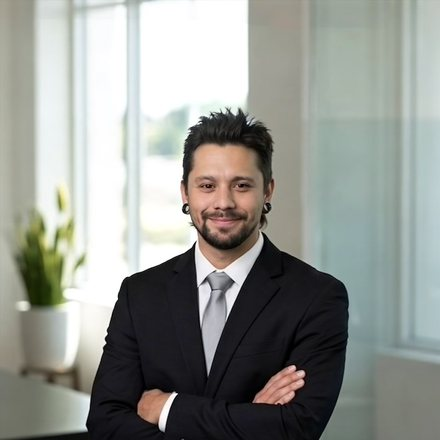
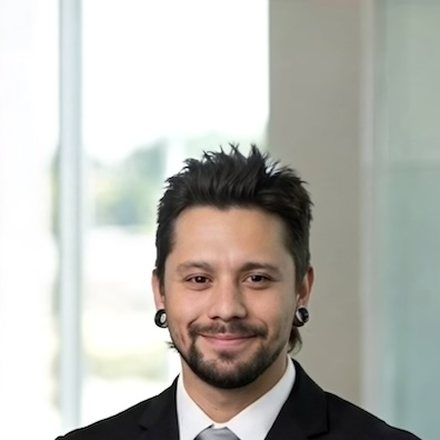
Dark mode default; tighter face-filling team crops (v3); email click copies to clipboard w/ toast; drop 'reply within one business day' claims

diff --git a/contact.html b/contact.html
@@ -15,8 +15,8 @@
 <link rel="preconnect" href="https://fonts.googleapis.com">
 <link rel="preconnect" href="https://fonts.gstatic.com" crossorigin>
 <link href="https://fonts.googleapis.com/css2?family=Space+Grotesk:wght@500;600;700&family=Plus+Jakarta+Sans:wght@400;500;600;700&display=swap" rel="stylesheet">
-<link rel="stylesheet" href="styles.css?v=8">
-<script>(function(){try{var t=localStorage.getItem("theme")||(matchMedia("(prefers-color-scheme:dark)").matches?"dark":"light");document.documentElement.setAttribute("data-theme",t);}catch(e){}})();</script>
+<link rel="stylesheet" href="styles.css?v=9">
+<script>(function(){try{var t=localStorage.getItem("theme")||"dark";document.documentElement.setAttribute("data-theme",t);}catch(e){}})();</script>
 </head>
 <body>
 <a class="skip" href="#main">Skip to content</a>
@@ -45,7 +45,7 @@
  <section class="page-hero" style="padding-bottom:6px"><div class="wrap">
    <span class="eyebrow reveal">Contact</span>
    <h1 class="reveal d1">Tell us what you need</h1>
-   <p class="reveal d2">Fill out the quick form below and we will reply within one business day. Prefer to talk?<br>Call or text <a href="tel:+14802874190" style="color:var(--brand);font-weight:600;text-decoration:none">(480) 287-4190</a>.</p>
+   <p class="reveal d2">Fill out the quick form below and we will be in touch. Prefer to talk?<br>Call or text <a href="tel:+14802874190" style="color:var(--brand);font-weight:600;text-decoration:none">(480) 287-4190</a>.</p>
  </div></section>
 
  <section class="section" id="form" style="padding-top:26px"><div class="wrap">
@@ -90,7 +90,7 @@
  <section class="section" id="team" style="background:var(--surface);border-block:1px solid var(--line)"><div class="wrap">
    <div class="sec-head center reveal"><span class="eyebrow">Meet the team</span><h2>The local people behind Anderson Technologies</h2>
      <p>Real people you can reach, not a call center. When you call, you get us.</p></div>
-   <div class="team-grid"><div class="team-card reveal"><div class="team-av"><img src="assets/wyatt.jpg?v=2" alt="Wyatt Anderson" loading="lazy" width="440" height="440"></div><h3>Wyatt Anderson</h3><p>Founder</p></div><div class="team-card reveal"><div class="team-av"><img src="assets/albert.jpg?v=2" alt="Albert" loading="lazy" width="440" height="440"></div><h3>Albert</h3><p>Operations Manager</p></div><div class="team-card reveal"><div class="team-av"><img src="assets/alex.jpg?v=2" alt="Alex" loading="lazy" width="440" height="440"></div><h3>Alex</h3><p>Technician</p></div><div class="team-card reveal"><div class="team-av"><img src="assets/nico.jpg?v=2" alt="Nico" loading="lazy" width="440" height="440"></div><h3>Nico</h3><p>Technician</p></div><div class="team-card reveal"><div class="team-av"><img src="assets/josh.jpg?v=2" alt="Josh" loading="lazy" width="440" height="440"></div><h3>Josh</h3><p>Technician</p></div><div class="team-card reveal"><div class="team-av"><img src="assets/carolina.jpg?v=2" alt="Carolina" loading="lazy" width="440" height="440"></div><h3>Carolina</h3><p>Technician</p></div><div class="team-card reveal"><div class="team-av"><img src="assets/dakota.jpg?v=2" alt="Dakota" loading="lazy" width="440" height="440"></div><h3>Dakota</h3><p>Technician</p></div><div class="team-card reveal"><div class="team-av mono"><span>E</span></div><h3>Eduardo</h3><p>Technician</p></div><div class="team-card reveal"><div class="team-av"><img src="assets/keanu.jpg?v=2" alt="Keanu" loading="lazy" width="440" height="440"></div><h3>Keanu</h3><p>Technician</p></div><div class="team-card reveal"><div class="team-av"><img src="assets/alejandro.jpg?v=2" alt="Alejandro" loading="lazy" width="440" height="440"></div><h3>Alejandro</h3><p>Technician</p></div><div class="team-card reveal"><div class="team-av"><img src="assets/brandon.jpg?v=2" alt="Brandon" loading="lazy" width="440" height="440"></div><h3>Brandon</h3><p>Technician</p></div></div>
+   <div class="team-grid"><div class="team-card reveal"><div class="team-av"><img src="assets/wyatt.jpg?v=3" alt="Wyatt Anderson" loading="lazy" width="440" height="440"></div><h3>Wyatt Anderson</h3><p>Founder</p></div><div class="team-card reveal"><div class="team-av"><img src="assets/albert.jpg?v=3" alt="Albert" loading="lazy" width="440" height="440"></div><h3>Albert</h3><p>Operations Manager</p></div><div class="team-card reveal"><div class="team-av"><img src="assets/alex.jpg?v=3" alt="Alex" loading="lazy" width="440" height="440"></div><h3>Alex</h3><p>Technician</p></div><div class="team-card reveal"><div class="team-av"><img src="assets/nico.jpg?v=3" alt="Nico" loading="lazy" width="440" height="440"></div><h3>Nico</h3><p>Technician</p></div><div class="team-card reveal"><div class="team-av"><img src="assets/josh.jpg?v=3" alt="Josh" loading="lazy" width="440" height="440"></div><h3>Josh</h3><p>Technician</p></div><div class="team-card reveal"><div class="team-av"><img src="assets/carolina.jpg?v=3" alt="Carolina" loading="lazy" width="440" height="440"></div><h3>Carolina</h3><p>Technician</p></div><div class="team-card reveal"><div class="team-av"><img src="assets/dakota.jpg?v=3" alt="Dakota" loading="lazy" width="440" height="440"></div><h3>Dakota</h3><p>Technician</p></div><div class="team-card reveal"><div class="team-av mono"><span>E</span></div><h3>Eduardo</h3><p>Technician</p></div><div class="team-card reveal"><div class="team-av"><img src="assets/keanu.jpg?v=3" alt="Keanu" loading="lazy" width="440" height="440"></div><h3>Keanu</h3><p>Technician</p></div><div class="team-card reveal"><div class="team-av"><img src="assets/alejandro.jpg?v=3" alt="Alejandro" loading="lazy" width="440" height="440"></div><h3>Alejandro</h3><p>Technician</p></div><div class="team-card reveal"><div class="team-av"><img src="assets/brandon.jpg?v=3" alt="Brandon" loading="lazy" width="440" height="440"></div><h3>Brandon</h3><p>Technician</p></div></div>
  </div></section>
 
  
@@ -136,5 +136,5 @@
   <div class="legal"><span>© 2026 Anderson Technologies LLC. All rights reserved.</span>
     <span>Arizona & California</span></div>
 </div></footer>
-<script src="app.js?v=2"></script>
+<script src="app.js?v=3"></script>
 </body></html>

diff --git a/index.html b/index.html
@@ -15,8 +15,8 @@
 <link rel="preconnect" href="https://fonts.googleapis.com">
 <link rel="preconnect" href="https://fonts.gstatic.com" crossorigin>
 <link href="https://fonts.googleapis.com/css2?family=Space+Grotesk:wght@500;600;700&family=Plus+Jakarta+Sans:wght@400;500;600;700&display=swap" rel="stylesheet">
-<link rel="stylesheet" href="styles.css?v=8">
-<script>(function(){try{var t=localStorage.getItem("theme")||(matchMedia("(prefers-color-scheme:dark)").matches?"dark":"light");document.documentElement.setAttribute("data-theme",t);}catch(e){}})();</script>
+<link rel="stylesheet" href="styles.css?v=9">
+<script>(function(){try{var t=localStorage.getItem("theme")||"dark";document.documentElement.setAttribute("data-theme",t);}catch(e){}})();</script>
 </head>
 <body>
 <a class="skip" href="#main">Skip to content</a>
@@ -55,7 +55,7 @@
    <div class="hero-panel reveal d2">
      <div class="row"><div class="ic"><svg viewBox="0 0 24 24" aria-hidden="true"><path d="M4 14v-2a8 8 0 0 1 16 0v2"/><path d="M4 14a2 2 0 0 1 2-2h1v6H6a2 2 0 0 1-2-2v-2Zm16 0a2 2 0 0 0-2-2h-1v6h1a2 2 0 0 0 2-2v-2Z"/><path d="M18 18v1a3 3 0 0 1-3 3h-3"/></svg></div><div><b>Managed IT for business</b><span>Proactive support, security, and cloud</span></div></div>
      <div class="row"><div class="ic mint"><svg viewBox="0 0 24 24" aria-hidden="true"><path d="M14.7 6.3a4 4 0 0 0-5.2 5.2L4 17v3h3l5.5-5.5a4 4 0 0 0 5.2-5.2l-2.5 2.5-2.5-.5-.5-2.5 2.5-2.5Z"/></svg></div><div><b>Home and office help</b><span>Repairs and setup, no contract needed</span></div></div>
-     <div class="row"><div class="ic amber"><svg viewBox="0 0 24 24" aria-hidden="true"><circle cx="12" cy="12" r="9"/><path d="M12 7v5l3 2"/></svg></div><div><b>Reply within one business day</b><span>Clear next steps, every time</span></div></div>
+     <div class="row"><div class="ic amber"><svg viewBox="0 0 24 24" aria-hidden="true"><path d="M5 12.5l4 4L19 7"/></svg></div><div><b>Honest, upfront pricing</b><span>No surprises, no runaround</span></div></div>
    </div>
  </div></section>
 
@@ -157,7 +157,7 @@
    <div class="center u-mt reveal"><a href="reviews.html" class="btn btn-ghost">See all reviews <svg viewBox="0 0 24 24" aria-hidden="true"><path d="M5 12h14M13 6l6 6-6 6"/></svg></a></div>
  </div></section>
  <section class="section"><div class="wrap"><div class="cta reveal">
-  <h2>Let's get your technology working for you.</h2><p>Tell us what you need. We reply within one business day with clear next steps, no pressure and no runaround.</p>
+  <h2>Let's get your technology working for you.</h2><p>Tell us what you need. Clear next steps, no pressure and no runaround.</p>
   <div class="hero-cta">
     <a href="contact.html" class="btn btn-white">Get a free quote <svg viewBox="0 0 24 24" aria-hidden="true"><path d="M5 12h14M13 6l6 6-6 6"/></svg></a>
     <a href="tel:+14802874190" class="btn btn-ghost" style="background:transparent;color:#fff;border-color:rgba(255,255,255,.5)">Call (480) 287-4190</a>
@@ -187,5 +187,5 @@
   <div class="legal"><span>© 2026 Anderson Technologies LLC. All rights reserved.</span>
     <span>Arizona & California</span></div>
 </div></footer>
-<script src="app.js?v=2"></script>
+<script src="app.js?v=3"></script>
 </body></html>

diff --git a/thanks.html b/thanks.html
@@ -4,19 +4,19 @@
 <meta charset="UTF-8">
 <meta name="viewport" content="width=device-width, initial-scale=1.0">
 <title>Message received | Anderson Technologies</title>
-<meta name="description" content="Thanks for reaching out. We will reply within one business day.">
+<meta name="description" content="Thanks for reaching out. We will be in touch soon.">
 <link rel="canonical" href="https://andersontechsupport.com/thanks.html">
 <meta property="og:type" content="website">
 <meta property="og:url" content="https://andersontechsupport.com/thanks.html">
 <meta property="og:title" content="Message received | Anderson Technologies">
-<meta property="og:description" content="Thanks for reaching out. We will reply within one business day.">
+<meta property="og:description" content="Thanks for reaching out. We will be in touch soon.">
 <meta name="theme-color" content="#2563eb">
 <link rel="icon" href="assets/favicon.ico">
 <link rel="preconnect" href="https://fonts.googleapis.com">
 <link rel="preconnect" href="https://fonts.gstatic.com" crossorigin>
 <link href="https://fonts.googleapis.com/css2?family=Space+Grotesk:wght@500;600;700&family=Plus+Jakarta+Sans:wght@400;500;600;700&display=swap" rel="stylesheet">
-<link rel="stylesheet" href="styles.css?v=8">
-<script>(function(){try{var t=localStorage.getItem("theme")||(matchMedia("(prefers-color-scheme:dark)").matches?"dark":"light");document.documentElement.setAttribute("data-theme",t);}catch(e){}})();</script>
+<link rel="stylesheet" href="styles.css?v=9">
+<script>(function(){try{var t=localStorage.getItem("theme")||"dark";document.documentElement.setAttribute("data-theme",t);}catch(e){}})();</script>
 </head>
 <body>
 <a class="skip" href="#main">Skip to content</a>
@@ -45,7 +45,7 @@
    <div class="svc" style="width:64px;height:64px;margin:0 auto 24px;display:grid;place-items:center;border-radius:20px">
      <div class="ic" style="margin:0;width:auto;height:auto;background:none;color:var(--mint)"><svg viewBox="0 0 24 24" style="width:34px;height:34px" aria-hidden="true"><path d="M5 12.5l4 4L19 7"/></svg></div></div>
    <h1>Thanks, we got it</h1>
-   <p>Your message is on its way to our team. We reply within one business day with clear next steps. Need help sooner? Call (480) 287-4190.</p>
+   <p>Your message is on its way to our team. We will be in touch with clear next steps. Need help sooner? Call (480) 287-4190.</p>
    <div class="hero-cta" style="justify-content:center;margin-top:26px"><a href="index.html" class="btn btn-primary">Back to home <svg viewBox="0 0 24 24" aria-hidden="true"><path d="M5 12h14M13 6l6 6-6 6"/></svg></a></div>
  </div></section></main><footer><div class="wrap">
   <div class="foot-grid">
@@ -72,5 +72,5 @@
   <div class="legal"><span>© 2026 Anderson Technologies LLC. All rights reserved.</span>
     <span>Arizona & California</span></div>
 </div></footer>
-<script src="app.js?v=2"></script>
+<script src="app.js?v=3"></script>
 </body></html>

diff --git a/support.html b/support.html
@@ -15,8 +15,8 @@
 <link rel="preconnect" href="https://fonts.googleapis.com">
 <link rel="preconnect" href="https://fonts.gstatic.com" crossorigin>
 <link href="https://fonts.googleapis.com/css2?family=Space+Grotesk:wght@500;600;700&family=Plus+Jakarta+Sans:wght@400;500;600;700&display=swap" rel="stylesheet">
-<link rel="stylesheet" href="styles.css?v=8">
-<script>(function(){try{var t=localStorage.getItem("theme")||(matchMedia("(prefers-color-scheme:dark)").matches?"dark":"light");document.documentElement.setAttribute("data-theme",t);}catch(e){}})();</script>
+<link rel="stylesheet" href="styles.css?v=9">
+<script>(function(){try{var t=localStorage.getItem("theme")||"dark";document.documentElement.setAttribute("data-theme",t);}catch(e){}})();</script>
 </head>
 <body>
 <a class="skip" href="#main">Skip to content</a>
@@ -73,7 +73,7 @@
    <div class="center u-mt reveal"><a href="contact.html?service=Home%20%26%20Office%20Support" class="btn btn-primary">Book support <svg viewBox="0 0 24 24" aria-hidden="true"><path d="M5 12h14M13 6l6 6-6 6"/></svg></a></div>
  </div></section>
  <section class="section"><div class="wrap"><div class="cta reveal">
-  <h2>Something not working? Let's fix it.</h2><p>Send a quick note about what is going on. We reply within one business day with a plan and a price.</p>
+  <h2>Something not working? Let's fix it.</h2><p>Send a quick note about what is going on and we will get you a plan and a price.</p>
   <div class="hero-cta">
     <a href="contact.html" class="btn btn-white">Get a free quote <svg viewBox="0 0 24 24" aria-hidden="true"><path d="M5 12h14M13 6l6 6-6 6"/></svg></a>
     <a href="tel:+14802874190" class="btn btn-ghost" style="background:transparent;color:#fff;border-color:rgba(255,255,255,.5)">Call (480) 287-4190</a>
@@ -103,5 +103,5 @@
   <div class="legal"><span>© 2026 Anderson Technologies LLC. All rights reserved.</span>
     <span>Arizona & California</span></div>
 </div></footer>
-<script src="app.js?v=2"></script>
+<script src="app.js?v=3"></script>
 </body></html>

diff --git a/reviews.html b/reviews.html
@@ -15,8 +15,8 @@
 <link rel="preconnect" href="https://fonts.googleapis.com">
 <link rel="preconnect" href="https://fonts.gstatic.com" crossorigin>
 <link href="https://fonts.googleapis.com/css2?family=Space+Grotesk:wght@500;600;700&family=Plus+Jakarta+Sans:wght@400;500;600;700&display=swap" rel="stylesheet">
-<link rel="stylesheet" href="styles.css?v=8">
-<script>(function(){try{var t=localStorage.getItem("theme")||(matchMedia("(prefers-color-scheme:dark)").matches?"dark":"light");document.documentElement.setAttribute("data-theme",t);}catch(e){}})();</script>
+<link rel="stylesheet" href="styles.css?v=9">
+<script>(function(){try{var t=localStorage.getItem("theme")||"dark";document.documentElement.setAttribute("data-theme",t);}catch(e){}})();</script>
 </head>
 <body>
 <a class="skip" href="#main">Skip to content</a>
@@ -101,7 +101,7 @@
         <div class="who"><div class="av">P</div><div><b>Patrick</b><span>Newport Beach, CA</span></div></div></div></div>
  </div></section>
  <section class="section"><div class="wrap"><div class="cta reveal">
-  <h2>Let's get your technology working for you.</h2><p>Tell us what you need. We reply within one business day with clear next steps, no pressure and no runaround.</p>
+  <h2>Let's get your technology working for you.</h2><p>Tell us what you need. Clear next steps, no pressure and no runaround.</p>
   <div class="hero-cta">
     <a href="contact.html" class="btn btn-white">Get a free quote <svg viewBox="0 0 24 24" aria-hidden="true"><path d="M5 12h14M13 6l6 6-6 6"/></svg></a>
     <a href="tel:+14802874190" class="btn btn-ghost" style="background:transparent;color:#fff;border-color:rgba(255,255,255,.5)">Call (480) 287-4190</a>
@@ -131,5 +131,5 @@
   <div class="legal"><span>© 2026 Anderson Technologies LLC. All rights reserved.</span>
     <span>Arizona & California</span></div>
 </div></footer>
-<script src="app.js?v=2"></script>
+<script src="app.js?v=3"></script>
 </body></html>

diff --git a/app.js b/app.js
@@ -77,11 +77,29 @@ document.querySelectorAll('.theme-toggle').forEach(btn => {
       try { ok = /thanks/i.test(iframe.contentWindow.location.pathname); }
       catch (err) { ok = true; }          // cross-origin = FormSubmit queued it (pre-activation or its own thanks page)
       if (ok){
-        show('Thanks. Your message is on its way and we reply within one business day. Prefer to talk now? Call (480) 287-4190.', false);
+        show('Thanks. Your message is on its way. Prefer to talk now? Call (480) 287-4190.', false);
         form.reset();
       } else {
         show('Something went wrong sending that. Please email Info@AndersonTechSupport.com or call (480) 287-4190.', true);
       }
     });
   }
+})();
+
+// mailto links: copy the address + show a toast (many desktops have no mail handler, so a click does nothing otherwise)
+(function(){
+  function toast(msg){
+    var t=document.getElementById('toast');
+    if(!t){t=document.createElement('div');t.id='toast';t.className='toast';document.body.appendChild(t);}
+    t.textContent=msg; t.classList.add('show');
+    clearTimeout(t._h); t._h=setTimeout(function(){t.classList.remove('show');},1900);
+  }
+  document.querySelectorAll('a[href^="mailto:"]').forEach(function(a){
+    a.addEventListener('click',function(){
+      var addr=a.getAttribute('href').replace(/^mailto:/,'');
+      if(navigator.clipboard&&navigator.clipboard.writeText){
+        navigator.clipboard.writeText(addr).then(function(){toast('Email copied: '+addr);}).catch(function(){});
+      }
+    });
+  });
 })();

diff --git a/business.html b/business.html
@@ -15,8 +15,8 @@
 <link rel="preconnect" href="https://fonts.googleapis.com">
 <link rel="preconnect" href="https://fonts.gstatic.com" crossorigin>
 <link href="https://fonts.googleapis.com/css2?family=Space+Grotesk:wght@500;600;700&family=Plus+Jakarta+Sans:wght@400;500;600;700&display=swap" rel="stylesheet">
-<link rel="stylesheet" href="styles.css?v=8">
-<script>(function(){try{var t=localStorage.getItem("theme")||(matchMedia("(prefers-color-scheme:dark)").matches?"dark":"light");document.documentElement.setAttribute("data-theme",t);}catch(e){}})();</script>
+<link rel="stylesheet" href="styles.css?v=9">
+<script>(function(){try{var t=localStorage.getItem("theme")||"dark";document.documentElement.setAttribute("data-theme",t);}catch(e){}})();</script>
 </head>
 <body>
 <a class="skip" href="#main">Skip to content</a>
@@ -112,5 +112,5 @@
   <div class="legal"><span>© 2026 Anderson Technologies LLC. All rights reserved.</span>
     <span>Arizona & California</span></div>
 </div></footer>
-<script src="app.js?v=2"></script>
+<script src="app.js?v=3"></script>
 </body></html>

diff --git a/404.html b/404.html
@@ -15,8 +15,8 @@
 <link rel="preconnect" href="https://fonts.googleapis.com">
 <link rel="preconnect" href="https://fonts.gstatic.com" crossorigin>
 <link href="https://fonts.googleapis.com/css2?family=Space+Grotesk:wght@500;600;700&family=Plus+Jakarta+Sans:wght@400;500;600;700&display=swap" rel="stylesheet">
-<link rel="stylesheet" href="styles.css?v=8">
-<script>(function(){try{var t=localStorage.getItem("theme")||(matchMedia("(prefers-color-scheme:dark)").matches?"dark":"light");document.documentElement.setAttribute("data-theme",t);}catch(e){}})();</script>
+<link rel="stylesheet" href="styles.css?v=9">
+<script>(function(){try{var t=localStorage.getItem("theme")||"dark";document.documentElement.setAttribute("data-theme",t);}catch(e){}})();</script>
 </head>
 <body>
 <a class="skip" href="#main">Skip to content</a>
@@ -69,5 +69,5 @@
   <div class="legal"><span>© 2026 Anderson Technologies LLC. All rights reserved.</span>
     <span>Arizona & California</span></div>
 </div></footer>
-<script src="app.js?v=2"></script>
+<script src="app.js?v=3"></script>
 </body></html>

diff --git a/ai.html b/ai.html
@@ -15,8 +15,8 @@
 <link rel="preconnect" href="https://fonts.googleapis.com">
 <link rel="preconnect" href="https://fonts.gstatic.com" crossorigin>
 <link href="https://fonts.googleapis.com/css2?family=Space+Grotesk:wght@500;600;700&family=Plus+Jakarta+Sans:wght@400;500;600;700&display=swap" rel="stylesheet">
-<link rel="stylesheet" href="styles.css?v=8">
-<script>(function(){try{var t=localStorage.getItem("theme")||(matchMedia("(prefers-color-scheme:dark)").matches?"dark":"light");document.documentElement.setAttribute("data-theme",t);}catch(e){}})();</script>
+<link rel="stylesheet" href="styles.css?v=9">
+<script>(function(){try{var t=localStorage.getItem("theme")||"dark";document.documentElement.setAttribute("data-theme",t);}catch(e){}})();</script>
 </head>
 <body>
 <a class="skip" href="#main">Skip to content</a>
@@ -95,5 +95,5 @@
   <div class="legal"><span>© 2026 Anderson Technologies LLC. All rights reserved.</span>
     <span>Arizona & California</span></div>
 </div></footer>
-<script src="app.js?v=2"></script>
+<script src="app.js?v=3"></script>
 </body></html>

diff --git a/styles.css b/styles.css
@@ -385,3 +385,10 @@ footer h5{color:#fff;font-family:var(--disp);font-size:.85rem;letter-spacing:.08
 [data-theme="dark"] .team-av.mono{background:rgba(76,141,255,.14)}
 /* About block folded into Contact */
 .about-body{max-width:760px;margin:0 auto}
+
+/* Toast (copy-to-clipboard feedback) */
+.toast{position:fixed;left:50%;bottom:26px;transform:translateX(-50%) translateY(16px);background:var(--ink);color:#fff;
+  padding:12px 20px;border-radius:12px;font-weight:600;font-size:.9rem;box-shadow:var(--shadow);
+  opacity:0;pointer-events:none;transition:opacity .25s ease,transform .25s ease;z-index:200}
+.toast.show{opacity:1;transform:translateX(-50%) translateY(0)}
+[data-theme="dark"] .toast{background:#f8fafc;color:#0f172a}

diff --git a/build.py b/build.py
@@ -5,7 +5,7 @@ No em dashes. No fabricated stats/testimonials/certifications/pricing.
 OWNER-INPUT to confirm: phone numbers, hours, response-time claim, real managed pricing."""
 import os
 ROOT = os.path.dirname(os.path.abspath(__file__))
-CSSV = "styles.css?v=8"
+CSSV = "styles.css?v=9"
 SITE = "https://andersontechsupport.com"
 PHONE_AZ, PHONE_CA = "(480) 287-4190", "(805) 340-8055"
 EMAIL = "info@andersontechsupport.com"          # lowercase = FormSubmit endpoint identity; do NOT change (would force re-activation)
@@ -38,7 +38,7 @@ ARROW = f'<svg viewBox="0 0 24 24" aria-hidden="true">{I["arrow"]}</svg>'
 SUN = '<svg class="sun" viewBox="0 0 24 24" aria-hidden="true"><circle cx="12" cy="12" r="4"/><path d="M12 2v2M12 20v2M4 12H2M22 12h-2M5.6 5.6 4.2 4.2M19.8 19.8l-1.4-1.4M18.4 5.6l1.4-1.4M4.2 19.8l1.4-1.4"/></svg>'
 MOON = '<svg class="moon" viewBox="0 0 24 24" aria-hidden="true"><path d="M20 14.5A8 8 0 1 1 9.5 4a6.5 6.5 0 0 0 10.5 10.5Z"/></svg>'
 TOGGLE = f'<button class="theme-toggle" type="button" aria-label="Toggle dark mode" title="Toggle theme">{SUN}{MOON}</button>'
-FOUC = '<script>(function(){try{var t=localStorage.getItem("theme")||(matchMedia("(prefers-color-scheme:dark)").matches?"dark":"light");document.documentElement.setAttribute("data-theme",t);}catch(e){}})();</script>'
+FOUC = '<script>(function(){try{var t=localStorage.getItem("theme")||"dark";document.documentElement.setAttribute("data-theme",t);}catch(e){}})();</script>'
 
 def head(title, desc, canon, og_desc=None):
     return f'''<!DOCTYPE html>
@@ -92,7 +92,7 @@ def nav(active=""):
 </div>
 '''
 
-def cta(h="Let's get your technology working for you.", p="Tell us what you need. We reply within one business day with clear next steps, no pressure and no runaround."):
+def cta(h="Let's get your technology working for you.", p="Tell us what you need. Clear next steps, no pressure and no runaround."):
     return f'''<section class="section"><div class="wrap"><div class="cta reveal">
   <h2>{h}</h2><p>{p}</p>
   <div class="hero-cta">
@@ -126,7 +126,7 @@ def footer():
   <div class="legal"><span>© 2026 Anderson Technologies LLC. All rights reserved.</span>
     <span>Arizona & California</span></div>
 </div></footer>
-<script src="app.js?v=2"></script>
+<script src="app.js?v=3"></script>
 </body></html>'''
 
 def svc_card(icon,title,desc):
@@ -219,7 +219,7 @@ home = (head(
    <div class="hero-panel reveal d2">
      <div class="row"><div class="ic">{ic("headset")}</div><div><b>Managed IT for business</b><span>Proactive support, security, and cloud</span></div></div>
      <div class="row"><div class="ic mint">{ic("wrench")}</div><div><b>Home and office help</b><span>Repairs and setup, no contract needed</span></div></div>
-     <div class="row"><div class="ic amber">{ic("clock")}</div><div><b>Reply within one business day</b><span>Clear next steps, every time</span></div></div>
+     <div class="row"><div class="ic amber">{ic("check")}</div><div><b>Honest, upfront pricing</b><span>No surprises, no runaround</span></div></div>
    </div>
  </div></section>
 
@@ -410,7 +410,7 @@ support = (head(
    </div>
    <div class="center u-mt reveal"><a href="contact.html?service=Home%20%26%20Office%20Support" class="btn btn-primary">Book support {ARROW}</a></div>
  </div></section>
- {cta("Something not working? Let's fix it.","Send a quick note about what is going on. We reply within one business day with a plan and a price.")}
+ {cta("Something not working? Let's fix it.","Send a quick note about what is going on and we will get you a plan and a price.")}
  </main>''' + footer())
 write("support.html", support)
 
@@ -440,7 +440,7 @@ team = [
 def team_card(m):
     initials = "".join(w[0] for w in m["name"].split()[:2]).upper()
     if m.get("img"):
-        inner, cls = f'<img src="assets/{m["img"]}?v=2" alt="{m["name"]}" loading="lazy" width="440" height="440">', "team-av"
+        inner, cls = f'<img src="assets/{m["img"]}?v=3" alt="{m["name"]}" loading="lazy" width="440" height="440">', "team-av"
     else:
         inner, cls = f'<span>{initials}</span>', "team-av mono"
     return f'<div class="team-card reveal"><div class="{cls}">{inner}</div><h3>{m["name"]}</h3><p>{m["role"]}</p></div>'
@@ -455,7 +455,7 @@ contact = (head(
  <section class="page-hero" style="padding-bottom:6px"><div class="wrap">
    <span class="eyebrow reveal">Contact</span>
    <h1 class="reveal d1">Tell us what you need</h1>
-   <p class="reveal d2">Fill out the quick form below and we will reply within one business day. Prefer to talk?<br>Call or text <a href="tel:+14802874190" style="color:var(--brand);font-weight:600;text-decoration:none">{PHONE_AZ}</a>.</p>
+   <p class="reveal d2">Fill out the quick form below and we will be in touch. Prefer to talk?<br>Call or text <a href="tel:+14802874190" style="color:var(--brand);font-weight:600;text-decoration:none">{PHONE_AZ}</a>.</p>
  </div></section>
 
  <section class="section" id="form" style="padding-top:26px"><div class="wrap">
@@ -550,13 +550,13 @@ ai = (head(
 write("ai.html", ai)
 
 # ============================ THANKS ============================
-thanks = (head("Message received | Anderson Technologies","Thanks for reaching out. We will reply within one business day.","thanks.html")
+thanks = (head("Message received | Anderson Technologies","Thanks for reaching out. We will be in touch soon.","thanks.html")
  + nav()
  + f'''<main id="main"><section class="page-hero" style="padding-block:clamp(4rem,10vw,7rem)"><div class="wrap">
    <div class="svc" style="width:64px;height:64px;margin:0 auto 24px;display:grid;place-items:center;border-radius:20px">
      <div class="ic" style="margin:0;width:auto;height:auto;background:none;color:var(--mint)"><svg viewBox="0 0 24 24" style="width:34px;height:34px" aria-hidden="true">{I["check"]}</svg></div></div>
    <h1>Thanks, we got it</h1>
-   <p>Your message is on its way to our team. We reply within one business day with clear next steps. Need help sooner? Call {PHONE_AZ}.</p>
+   <p>Your message is on its way to our team. We will be in touch with clear next steps. Need help sooner? Call {PHONE_AZ}.</p>
    <div class="hero-cta" style="justify-content:center;margin-top:26px"><a href="index.html" class="btn btn-primary">Back to home {ARROW}</a></div>
  </div></section></main>''' + footer())
 write("thanks.html", thanks)
